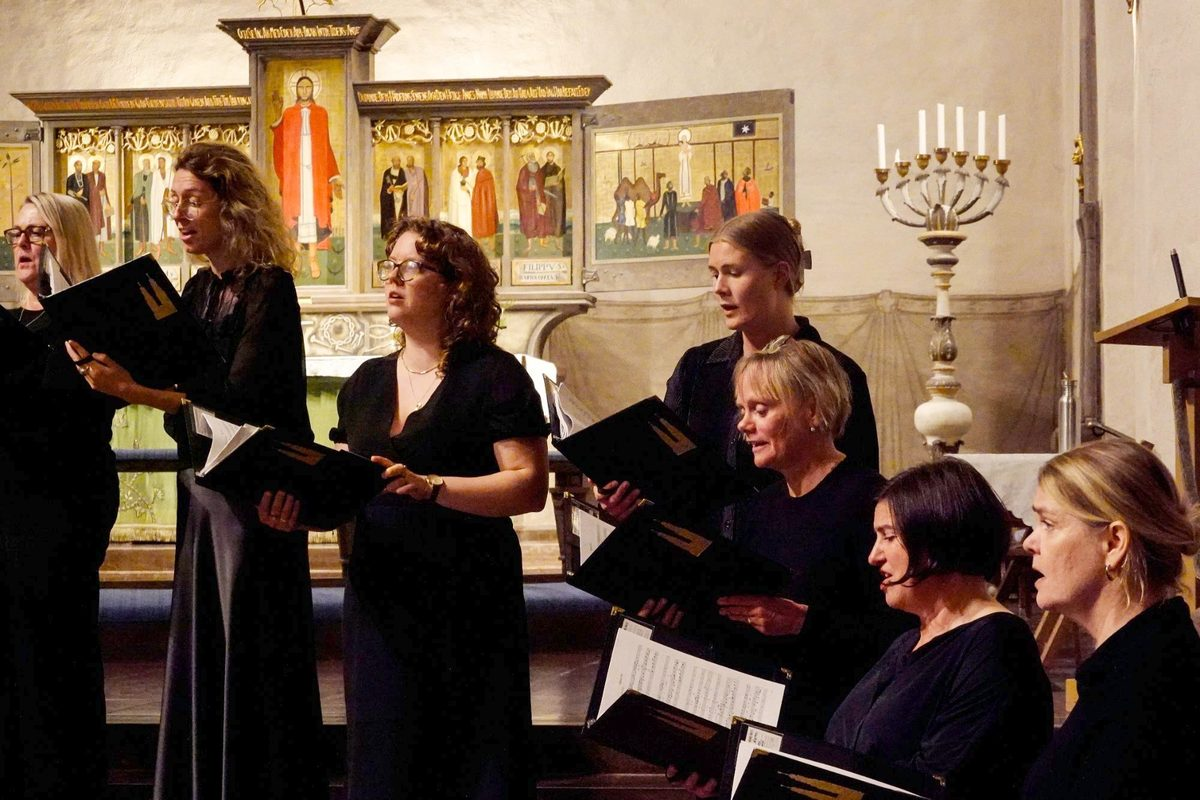
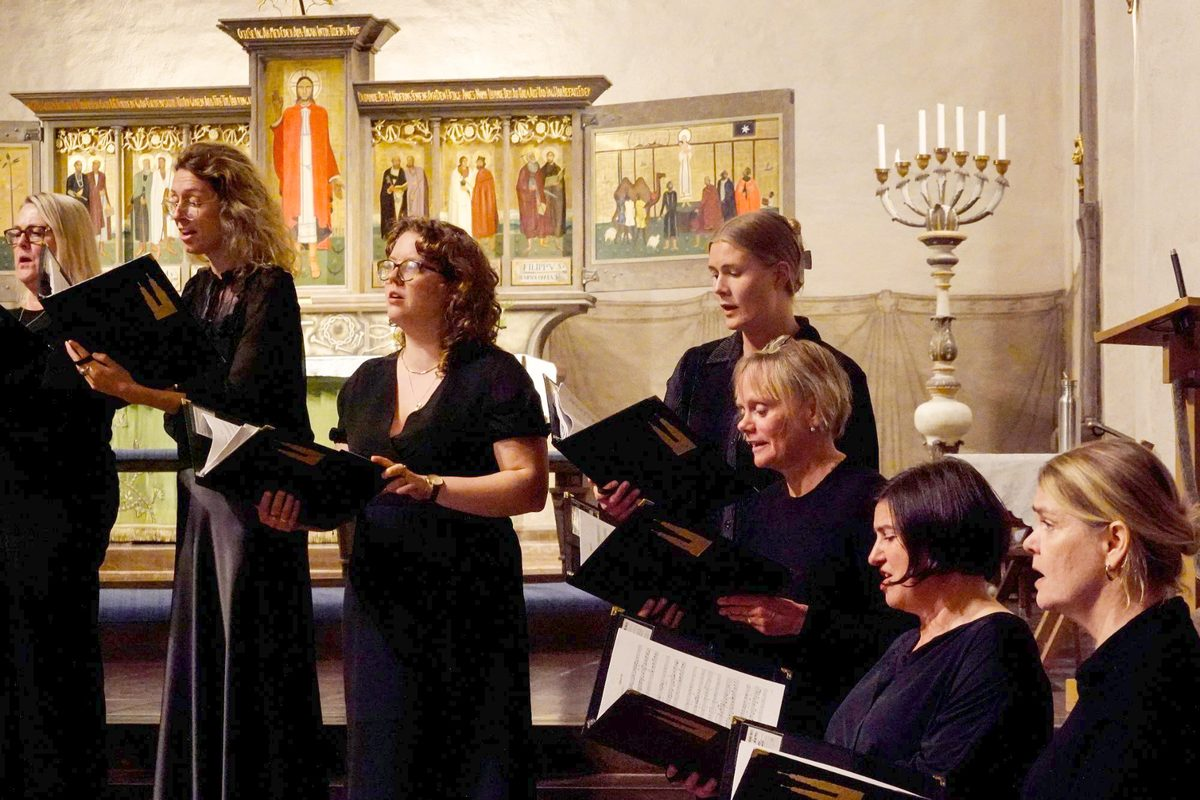
Use poster photo for Bach & Zelenka and move men's photo to join page
- Bach & Zelenka: use the (brightened) poster photo as hero and
  social image so the web matches the printed poster.
- Join page: show the men singing (new joinPage image fields, falling
  back to the choir image), highlighting the singing experience for
  prospective tenors and basses.
- About page: brighten the women's photo further (gamma 1.4 -> 1.7).

Claude-Session: https://claude.ai/code/session_01C8kYjgm8DWvn2eiaSYufmP

diff --git a/public/konserter/barockkonsert-hogalid/index.html b/public/konserter/barockkonsert-hogalid/index.html
@@ -11,12 +11,12 @@
 <meta property="og:description" content="Kammarkören Högalid och Johann Sebastian Bach-Chor från Hamburg möts i Högalidskyrkan med vokalsolister och barockorkester. Fri entré."/>
 <meta property="og:type" content="website"/>
 <meta property="og:url" content="https://www.kammarkorenhogalid.se/konserter/barockkonsert-hogalid/"/>
-<meta property="og:image" content="https://www.kammarkorenhogalid.se/assets/imported/concerts/bach-zelenka-korsangare-social.jpg"/>
+<meta property="og:image" content="https://www.kammarkorenhogalid.se/assets/imported/concerts/bach-zelenka-hogalidskyrkan.jpg"/>
 <meta property="twitter:title" content="Bach &amp; Zelenka | Kammarkören Högalid"/>
 <meta property="twitter:description" content="Kammarkören Högalid och Johann Sebastian Bach-Chor från Hamburg möts i Högalidskyrkan med vokalsolister och barockorkester. Fri entré."/>
 <meta name="twitter:card" content="summary_large_image"/>
-<meta name="twitter:image" content="https://www.kammarkorenhogalid.se/assets/imported/concerts/bach-zelenka-korsangare-social.jpg"/>
-<link rel="preload" as="image" href="/assets/imported/concerts/bach-zelenka-korsangare.jpg" srcset="/assets/imported/concerts/bach-zelenka-korsangare-500.jpg 500w, /assets/imported/concerts/bach-zelenka-korsangare-800.jpg 800w, /assets/imported/concerts/bach-zelenka-korsangare-1200.jpg 1200w, /assets/imported/concerts/bach-zelenka-korsangare.jpg 1440w" sizes="(max-width: 991px) 100vw, 44vw"/>
+<meta name="twitter:image" content="https://www.kammarkorenhogalid.se/assets/imported/concerts/bach-zelenka-hogalidskyrkan.jpg"/>
+<link rel="preload" as="image" href="/assets/imported/concerts/bach-zelenka-hogalidskyrkan.jpg" srcset="/assets/imported/concerts/bach-zelenka-hogalidskyrkan-500.jpg 500w, /assets/imported/concerts/bach-zelenka-hogalidskyrkan-800.jpg 800w, /assets/imported/concerts/bach-zelenka-hogalidskyrkan-1200.jpg 1200w, /assets/imported/concerts/bach-zelenka-hogalidskyrkan-1600.jpg 1600w, /assets/imported/concerts/bach-zelenka-hogalidskyrkan.jpg 2000w" sizes="(max-width: 991px) 100vw, 44vw"/>
 <link href="/assets/external/cdn.prod.website-files.com/66138d74ede779973813c4af/css/kammarkoren-hogalid.webflow.shared.32559a67a.min.css" rel="stylesheet" type="text/css"/>
 <link href="/assets/app.css?v=20260911-concert-lunches" rel="stylesheet" type="text/css"/>
 <link href="https://fonts.googleapis.com" rel="preconnect"/>
@@ -28,7 +28,7 @@
 <link href="/assets/external/cdn.prod.website-files.com/66138d74ede779973813c4af/6669dcc1d337a8ce79c7c0fb_hogalidstornen.jpg" rel="apple-touch-icon"/>
 <script async="" src="https://www.googletagmanager.com/gtag/js?id=G-9V303433QV"></script>
 <script type="text/javascript">window.dataLayer = window.dataLayer || [];function gtag(){dataLayer.push(arguments);}gtag("set","developer_id.dZGVlNj",true);gtag("js",new Date());gtag("config","G-9V303433QV");</script>
-<script type="application/ld+json">{"@context":"https://schema.org","@type":"MusicEvent","name":"Bach & Zelenka","startDate":"2026-10-25T16:00:00+01:00","endDate":"2026-10-25T18:00:00+01:00","eventAttendanceMode":"https://schema.org/OfflineEventAttendanceMode","eventStatus":"https://schema.org/EventScheduled","description":"Kammarkören Högalid och Johann Sebastian Bach-Chor från Hamburg möts i Högalidskyrkan med vokalsolister och barockorkester. Fri entré.","image":["https://www.kammarkorenhogalid.se/assets/imported/concerts/bach-zelenka-korsangare-social.jpg"],"location":{"@type":"Place","name":"Högalidskyrkan","address":"Högalids kyrkväg 11, 117 30 Stockholm"},"organizer":[{"@type":"Organization","name":"Högalids församling"},{"@type":"Organization","name":"Kammarkören Högalid","url":"https://www.kammarkorenhogalid.se"}],"performer":[{"@type":"PerformingGroup","name":"Kammarkören Högalid"},{"@type":"PerformingGroup","name":"Johann Sebastian Bach-Chor (Hamburg)"},{"@type":"PerformingGroup","name":"Barockorkester"},{"@type":"PerformingGroup","name":"Ann Wallström, konsertmästare"},{"@type":"PerformingGroup","name":"Agnes Auer, sopran"},{"@type":"PerformingGroup","name":"Rodrigo Sosa Dal Pozzo, alt"},{"@type":"PerformingGroup","name":"David Bergman, tenor"},{"@type":"PerformingGroup","name":"David Risberg, bas"},{"@type":"PerformingGroup","name":"Benedikt Melichar, dirigent"}]}</script>
+<script type="application/ld+json">{"@context":"https://schema.org","@type":"MusicEvent","name":"Bach & Zelenka","startDate":"2026-10-25T16:00:00+01:00","endDate":"2026-10-25T18:00:00+01:00","eventAttendanceMode":"https://schema.org/OfflineEventAttendanceMode","eventStatus":"https://schema.org/EventScheduled","description":"Kammarkören Högalid och Johann Sebastian Bach-Chor från Hamburg möts i Högalidskyrkan med vokalsolister och barockorkester. Fri entré.","image":["https://www.kammarkorenhogalid.se/assets/imported/concerts/bach-zelenka-hogalidskyrkan.jpg"],"location":{"@type":"Place","name":"Högalidskyrkan","address":"Högalids kyrkväg 11, 117 30 Stockholm"},"organizer":[{"@type":"Organization","name":"Högalids församling"},{"@type":"Organization","name":"Kammarkören Högalid","url":"https://www.kammarkorenhogalid.se"}],"performer":[{"@type":"PerformingGroup","name":"Kammarkören Högalid"},{"@type":"PerformingGroup","name":"Johann Sebastian Bach-Chor (Hamburg)"},{"@type":"PerformingGroup","name":"Barockorkester"},{"@type":"PerformingGroup","name":"Ann Wallström, konsertmästare"},{"@type":"PerformingGroup","name":"Agnes Auer, sopran"},{"@type":"PerformingGroup","name":"Rodrigo Sosa Dal Pozzo, alt"},{"@type":"PerformingGroup","name":"David Bergman, tenor"},{"@type":"PerformingGroup","name":"David Risberg, bas"},{"@type":"PerformingGroup","name":"Benedikt Melichar, dirigent"}]}</script>
 </head>
 <body data-page-type="concert_detail">
 <div data-collapse="medium" data-animation="default" data-duration="400" data-easing="ease" data-easing2="ease" role="banner" class="navigation w-nav">
@@ -64,7 +64,7 @@
         <p class="event-meta">söndag 25 oktober 2026 kl 16:00 · Högalidskyrkan</p>
       </div>
       <div class="media-card">
-        <img src="/assets/imported/concerts/bach-zelenka-korsangare.jpg" alt="Sångare i Kammarkören Högalid sjunger ur noterna till Zelenkas Missa Sancti Josephi." class="media-card-image" srcset="/assets/imported/concerts/bach-zelenka-korsangare-500.jpg 500w, /assets/imported/concerts/bach-zelenka-korsangare-800.jpg 800w, /assets/imported/concerts/bach-zelenka-korsangare-1200.jpg 1200w, /assets/imported/concerts/bach-zelenka-korsangare.jpg 1440w" sizes="(max-width: 991px) 100vw, 44vw" loading="eager" decoding="sync" fetchpriority="high"/>
+        <img src="/assets/imported/concerts/bach-zelenka-hogalidskyrkan.jpg" alt="Kammarkören Högalid sjunger i Högalidskyrkan, fotograferad bakifrån med kyrkbänkarna och orgeln i bakgrunden." class="media-card-image" srcset="/assets/imported/concerts/bach-zelenka-hogalidskyrkan-500.jpg 500w, /assets/imported/concerts/bach-zelenka-hogalidskyrkan-800.jpg 800w, /assets/imported/concerts/bach-zelenka-hogalidskyrkan-1200.jpg 1200w, /assets/imported/concerts/bach-zelenka-hogalidskyrkan-1600.jpg 1600w, /assets/imported/concerts/bach-zelenka-hogalidskyrkan.jpg 2000w" sizes="(max-width: 991px) 100vw, 44vw" loading="eager" decoding="sync" fetchpriority="high"/>
         <p class="media-card-credit">Bild: Mats Edman</p>
       </div>
     </div>

diff --git a/public/index.html b/public/index.html
@@ -28,7 +28,7 @@
 <link href="/assets/external/cdn.prod.website-files.com/66138d74ede779973813c4af/6669dcc1d337a8ce79c7c0fb_hogalidstornen.jpg" rel="apple-touch-icon"/>
 <script async="" src="https://www.googletagmanager.com/gtag/js?id=G-9V303433QV"></script>
 <script type="text/javascript">window.dataLayer = window.dataLayer || [];function gtag(){dataLayer.push(arguments);}gtag("set","developer_id.dZGVlNj",true);gtag("js",new Date());gtag("config","G-9V303433QV");</script>
-<script type="application/ld+json">{"@context":"https://schema.org","@type":"MusicGroup","name":"Kammarkören Högalid","description":"Kammarkören Högalid är en blandad kör på avancerad nivå i Stockholm. Upptäck nästa konsert, läs mer och spara datumet i din kalender.","email":"kammarkorenhogalid@gmail.com","url":"https://www.kammarkorenhogalid.se","image":"https://www.kammarkorenhogalid.se/assets/imported/kammarkoren-hogalid-hogalidskyrkan-2026.jpg","sameAs":["https://www.facebook.com/kammarkorenhogalid/?locale=sv_SE","https://www.instagram.com/kammarkoren_hogalid/"],"event":{"@type":"MusicEvent","name":"Bach & Zelenka","startDate":"2026-10-25T16:00:00+01:00","endDate":"2026-10-25T18:00:00+01:00","location":{"@type":"Place","name":"Högalidskyrkan","address":"Högalids kyrkväg 11, 117 30 Stockholm"},"image":["https://www.kammarkorenhogalid.se/assets/imported/concerts/bach-zelenka-korsangare-social.jpg"],"description":"Kammarkören Högalid och Johann Sebastian Bach-Chor från Hamburg möts i Högalidskyrkan med vokalsolister och barockorkester. Fri entré.","organizer":[{"@type":"Organization","name":"Högalids församling"},{"@type":"Organization","name":"Kammarkören Högalid","url":"https://www.kammarkorenhogalid.se"}],"performer":[{"@type":"PerformingGroup","name":"Kammarkören Högalid"},{"@type":"PerformingGroup","name":"Johann Sebastian Bach-Chor (Hamburg)"},{"@type":"PerformingGroup","name":"Barockorkester"},{"@type":"PerformingGroup","name":"Ann Wallström, konsertmästare"},{"@type":"PerformingGroup","name":"Agnes Auer, sopran"},{"@type":"PerformingGroup","name":"Rodrigo Sosa Dal Pozzo, alt"},{"@type":"PerformingGroup","name":"David Bergman, tenor"},{"@type":"PerformingGroup","name":"David Risberg, bas"},{"@type":"PerformingGroup","name":"Benedikt Melichar, dirigent"}]}}</script>
+<script type="application/ld+json">{"@context":"https://schema.org","@type":"MusicGroup","name":"Kammarkören Högalid","description":"Kammarkören Högalid är en blandad kör på avancerad nivå i Stockholm. Upptäck nästa konsert, läs mer och spara datumet i din kalender.","email":"kammarkorenhogalid@gmail.com","url":"https://www.kammarkorenhogalid.se","image":"https://www.kammarkorenhogalid.se/assets/imported/kammarkoren-hogalid-hogalidskyrkan-2026.jpg","sameAs":["https://www.facebook.com/kammarkorenhogalid/?locale=sv_SE","https://www.instagram.com/kammarkoren_hogalid/"],"event":{"@type":"MusicEvent","name":"Bach & Zelenka","startDate":"2026-10-25T16:00:00+01:00","endDate":"2026-10-25T18:00:00+01:00","location":{"@type":"Place","name":"Högalidskyrkan","address":"Högalids kyrkväg 11, 117 30 Stockholm"},"image":["https://www.kammarkorenhogalid.se/assets/imported/concerts/bach-zelenka-hogalidskyrkan.jpg"],"description":"Kammarkören Högalid och Johann Sebastian Bach-Chor från Hamburg möts i Högalidskyrkan med vokalsolister och barockorkester. Fri entré.","organizer":[{"@type":"Organization","name":"Högalids församling"},{"@type":"Organization","name":"Kammarkören Högalid","url":"https://www.kammarkorenhogalid.se"}],"performer":[{"@type":"PerformingGroup","name":"Kammarkören Högalid"},{"@type":"PerformingGroup","name":"Johann Sebastian Bach-Chor (Hamburg)"},{"@type":"PerformingGroup","name":"Barockorkester"},{"@type":"PerformingGroup","name":"Ann Wallström, konsertmästare"},{"@type":"PerformingGroup","name":"Agnes Auer, sopran"},{"@type":"PerformingGroup","name":"Rodrigo Sosa Dal Pozzo, alt"},{"@type":"PerformingGroup","name":"David Bergman, tenor"},{"@type":"PerformingGroup","name":"David Risberg, bas"},{"@type":"PerformingGroup","name":"Benedikt Melichar, dirigent"}]}}</script>
 </head>
 <body data-page-type="home">
 <div data-collapse="medium" data-animation="default" data-duration="400" data-easing="ease" data-easing2="ease" role="banner" class="navigation w-nav">

diff --git a/public/sjung-med-oss/index.html b/public/sjung-med-oss/index.html
@@ -11,12 +11,12 @@
 <meta property="og:description" content="Läs hur provsjungning går till, när vi repeterar och hur du skickar en intresseanmälan till Kammarkören Högalid."/>
 <meta property="og:type" content="website"/>
 <meta property="og:url" content="https://www.kammarkorenhogalid.se/sjung-med-oss/"/>
-<meta property="og:image" content="https://www.kammarkorenhogalid.se/assets/imported/kammarkoren-hogalid-hogalidskyrkan-2026.jpg"/>
+<meta property="og:image" content="https://www.kammarkorenhogalid.se/assets/imported/kammarkoren-hogalid-herrar-2026.jpg"/>
 <meta property="twitter:title" content="Sjung med oss | Kammarkören Högalid"/>
 <meta property="twitter:description" content="Läs hur provsjungning går till, när vi repeterar och hur du skickar en intresseanmälan till Kammarkören Högalid."/>
 <meta name="twitter:card" content="summary_large_image"/>
-<meta name="twitter:image" content="https://www.kammarkorenhogalid.se/assets/imported/kammarkoren-hogalid-hogalidskyrkan-2026.jpg"/>
-<link rel="preload" as="image" href="/assets/imported/kammarkoren-hogalid-hogalidskyrkan-2026.jpg" srcset="/assets/imported/kammarkoren-hogalid-hogalidskyrkan-2026-500.jpg 500w, /assets/imported/kammarkoren-hogalid-hogalidskyrkan-2026-800.jpg 800w, /assets/imported/kammarkoren-hogalid-hogalidskyrkan-2026-1200.jpg 1200w, /assets/imported/kammarkoren-hogalid-hogalidskyrkan-2026-1600.jpg 1600w, /assets/imported/kammarkoren-hogalid-hogalidskyrkan-2026.jpg 2000w" sizes="(max-width: 991px) 100vw, 44vw"/>
+<meta name="twitter:image" content="https://www.kammarkorenhogalid.se/assets/imported/kammarkoren-hogalid-herrar-2026.jpg"/>
+<link rel="preload" as="image" href="/assets/imported/kammarkoren-hogalid-herrar-2026.jpg" srcset="/assets/imported/kammarkoren-hogalid-herrar-2026-500.jpg 500w, /assets/imported/kammarkoren-hogalid-herrar-2026-800.jpg 800w, /assets/imported/kammarkoren-hogalid-herrar-2026-1200.jpg 1200w, /assets/imported/kammarkoren-hogalid-herrar-2026.jpg 1440w" sizes="(max-width: 991px) 100vw, 44vw"/>
 <link href="/assets/external/cdn.prod.website-files.com/66138d74ede779973813c4af/css/kammarkoren-hogalid.webflow.shared.32559a67a.min.css" rel="stylesheet" type="text/css"/>
 <link href="/assets/app.css?v=20260911-concert-lunches" rel="stylesheet" type="text/css"/>
 <link href="https://fonts.googleapis.com" rel="preconnect"/>
@@ -63,7 +63,7 @@
         <p class="page-lead">Kammarkören Högalid vänder sig till sångare med god körvana som vill arbeta självständigt och musicera på hög konstnärlig nivå.</p>
       </div>
       <div class="media-card media-card--portrait">
-        <img src="/assets/imported/kammarkoren-hogalid-hogalidskyrkan-2026.jpg" alt="Kammarkören Högalid samlad framför altaret i Högalidskyrkan." class="media-card-image" srcset="/assets/imported/kammarkoren-hogalid-hogalidskyrkan-2026-500.jpg 500w, /assets/imported/kammarkoren-hogalid-hogalidskyrkan-2026-800.jpg 800w, /assets/imported/kammarkoren-hogalid-hogalidskyrkan-2026-1200.jpg 1200w, /assets/imported/kammarkoren-hogalid-hogalidskyrkan-2026-1600.jpg 1600w, /assets/imported/kammarkoren-hogalid-hogalidskyrkan-2026.jpg 2000w" sizes="(max-width: 991px) 100vw, 44vw" loading="eager" decoding="sync" fetchpriority="high"/>
+        <img src="/assets/imported/kammarkoren-hogalid-herrar-2026.jpg" alt="Herrar i Kammarkören Högalid sjunger ur noterna." class="media-card-image" srcset="/assets/imported/kammarkoren-hogalid-herrar-2026-500.jpg 500w, /assets/imported/kammarkoren-hogalid-herrar-2026-800.jpg 800w, /assets/imported/kammarkoren-hogalid-herrar-2026-1200.jpg 1200w, /assets/imported/kammarkoren-hogalid-herrar-2026.jpg 1440w" sizes="(max-width: 991px) 100vw, 44vw" loading="eager" decoding="sync" fetchpriority="high"/>
         <p class="media-card-credit">Foto: Mats Edman</p>
       </div>
     </div>

diff --git a/public/konserter/index.html b/public/konserter/index.html
@@ -11,12 +11,12 @@
 <meta property="og:description" content="Se nästa konsert, spara datumet i kalendern och upptäck tidigare program från Kammarkören Högalid."/>
 <meta property="og:type" content="website"/>
 <meta property="og:url" content="https://www.kammarkorenhogalid.se/konserter/"/>
-<meta property="og:image" content="https://www.kammarkorenhogalid.se/assets/imported/concerts/bach-zelenka-korsangare-social.jpg"/>
+<meta property="og:image" content="https://www.kammarkorenhogalid.se/assets/imported/concerts/bach-zelenka-hogalidskyrkan.jpg"/>
 <meta property="twitter:title" content="Konserter | Kammarkören Högalid"/>
 <meta property="twitter:description" content="Se nästa konsert, spara datumet i kalendern och upptäck tidigare program från Kammarkören Högalid."/>
 <meta name="twitter:card" content="summary_large_image"/>
-<meta name="twitter:image" content="https://www.kammarkorenhogalid.se/assets/imported/concerts/bach-zelenka-korsangare-social.jpg"/>
-<link rel="preload" as="image" href="/assets/imported/concerts/bach-zelenka-korsangare.jpg" srcset="/assets/imported/concerts/bach-zelenka-korsangare-500.jpg 500w, /assets/imported/concerts/bach-zelenka-korsangare-800.jpg 800w, /assets/imported/concerts/bach-zelenka-korsangare-1200.jpg 1200w, /assets/imported/concerts/bach-zelenka-korsangare.jpg 1440w" sizes="(max-width: 991px) 100vw, 42vw"/>
+<meta name="twitter:image" content="https://www.kammarkorenhogalid.se/assets/imported/concerts/bach-zelenka-hogalidskyrkan.jpg"/>
+<link rel="preload" as="image" href="/assets/imported/concerts/bach-zelenka-hogalidskyrkan.jpg" srcset="/assets/imported/concerts/bach-zelenka-hogalidskyrkan-500.jpg 500w, /assets/imported/concerts/bach-zelenka-hogalidskyrkan-800.jpg 800w, /assets/imported/concerts/bach-zelenka-hogalidskyrkan-1200.jpg 1200w, /assets/imported/concerts/bach-zelenka-hogalidskyrkan-1600.jpg 1600w, /assets/imported/concerts/bach-zelenka-hogalidskyrkan.jpg 2000w" sizes="(max-width: 991px) 100vw, 42vw"/>
 <link href="/assets/external/cdn.prod.website-files.com/66138d74ede779973813c4af/css/kammarkoren-hogalid.webflow.shared.32559a67a.min.css" rel="stylesheet" type="text/css"/>
 <link href="/assets/app.css?v=20260911-concert-lunches" rel="stylesheet" type="text/css"/>
 <link href="https://fonts.googleapis.com" rel="preconnect"/>
@@ -81,7 +81,7 @@
       </div>
       <div class="concert-list">
         <article class="concert-card concert-card--upcoming">
-          <img src="/assets/imported/concerts/bach-zelenka-korsangare.jpg" alt="Sångare i Kammarkören Högalid sjunger ur noterna till Zelenkas Missa Sancti Josephi." class="concert-card-image" srcset="/assets/imported/concerts/bach-zelenka-korsangare-500.jpg 500w, /assets/imported/concerts/bach-zelenka-korsangare-800.jpg 800w, /assets/imported/concerts/bach-zelenka-korsangare-1200.jpg 1200w, /assets/imported/concerts/bach-zelenka-korsangare.jpg 1440w" sizes="(max-width: 991px) 100vw, 42vw" loading="lazy" decoding="async"/>
+          <img src="/assets/imported/concerts/bach-zelenka-hogalidskyrkan.jpg" alt="Kammarkören Högalid sjunger i Högalidskyrkan, fotograferad bakifrån med kyrkbänkarna och orgeln i bakgrunden." class="concert-card-image" srcset="/assets/imported/concerts/bach-zelenka-hogalidskyrkan-500.jpg 500w, /assets/imported/concerts/bach-zelenka-hogalidskyrkan-800.jpg 800w, /assets/imported/concerts/bach-zelenka-hogalidskyrkan-1200.jpg 1200w, /assets/imported/concerts/bach-zelenka-hogalidskyrkan-1600.jpg 1600w, /assets/imported/concerts/bach-zelenka-hogalidskyrkan.jpg 2000w" sizes="(max-width: 991px) 100vw, 42vw" loading="lazy" decoding="async"/>
           <div class="concert-card-body">
             <p class="concert-card-kicker">Nästa konsert</p>
             <h3 class="concert-card-title">Bach & Zelenka</h3>
